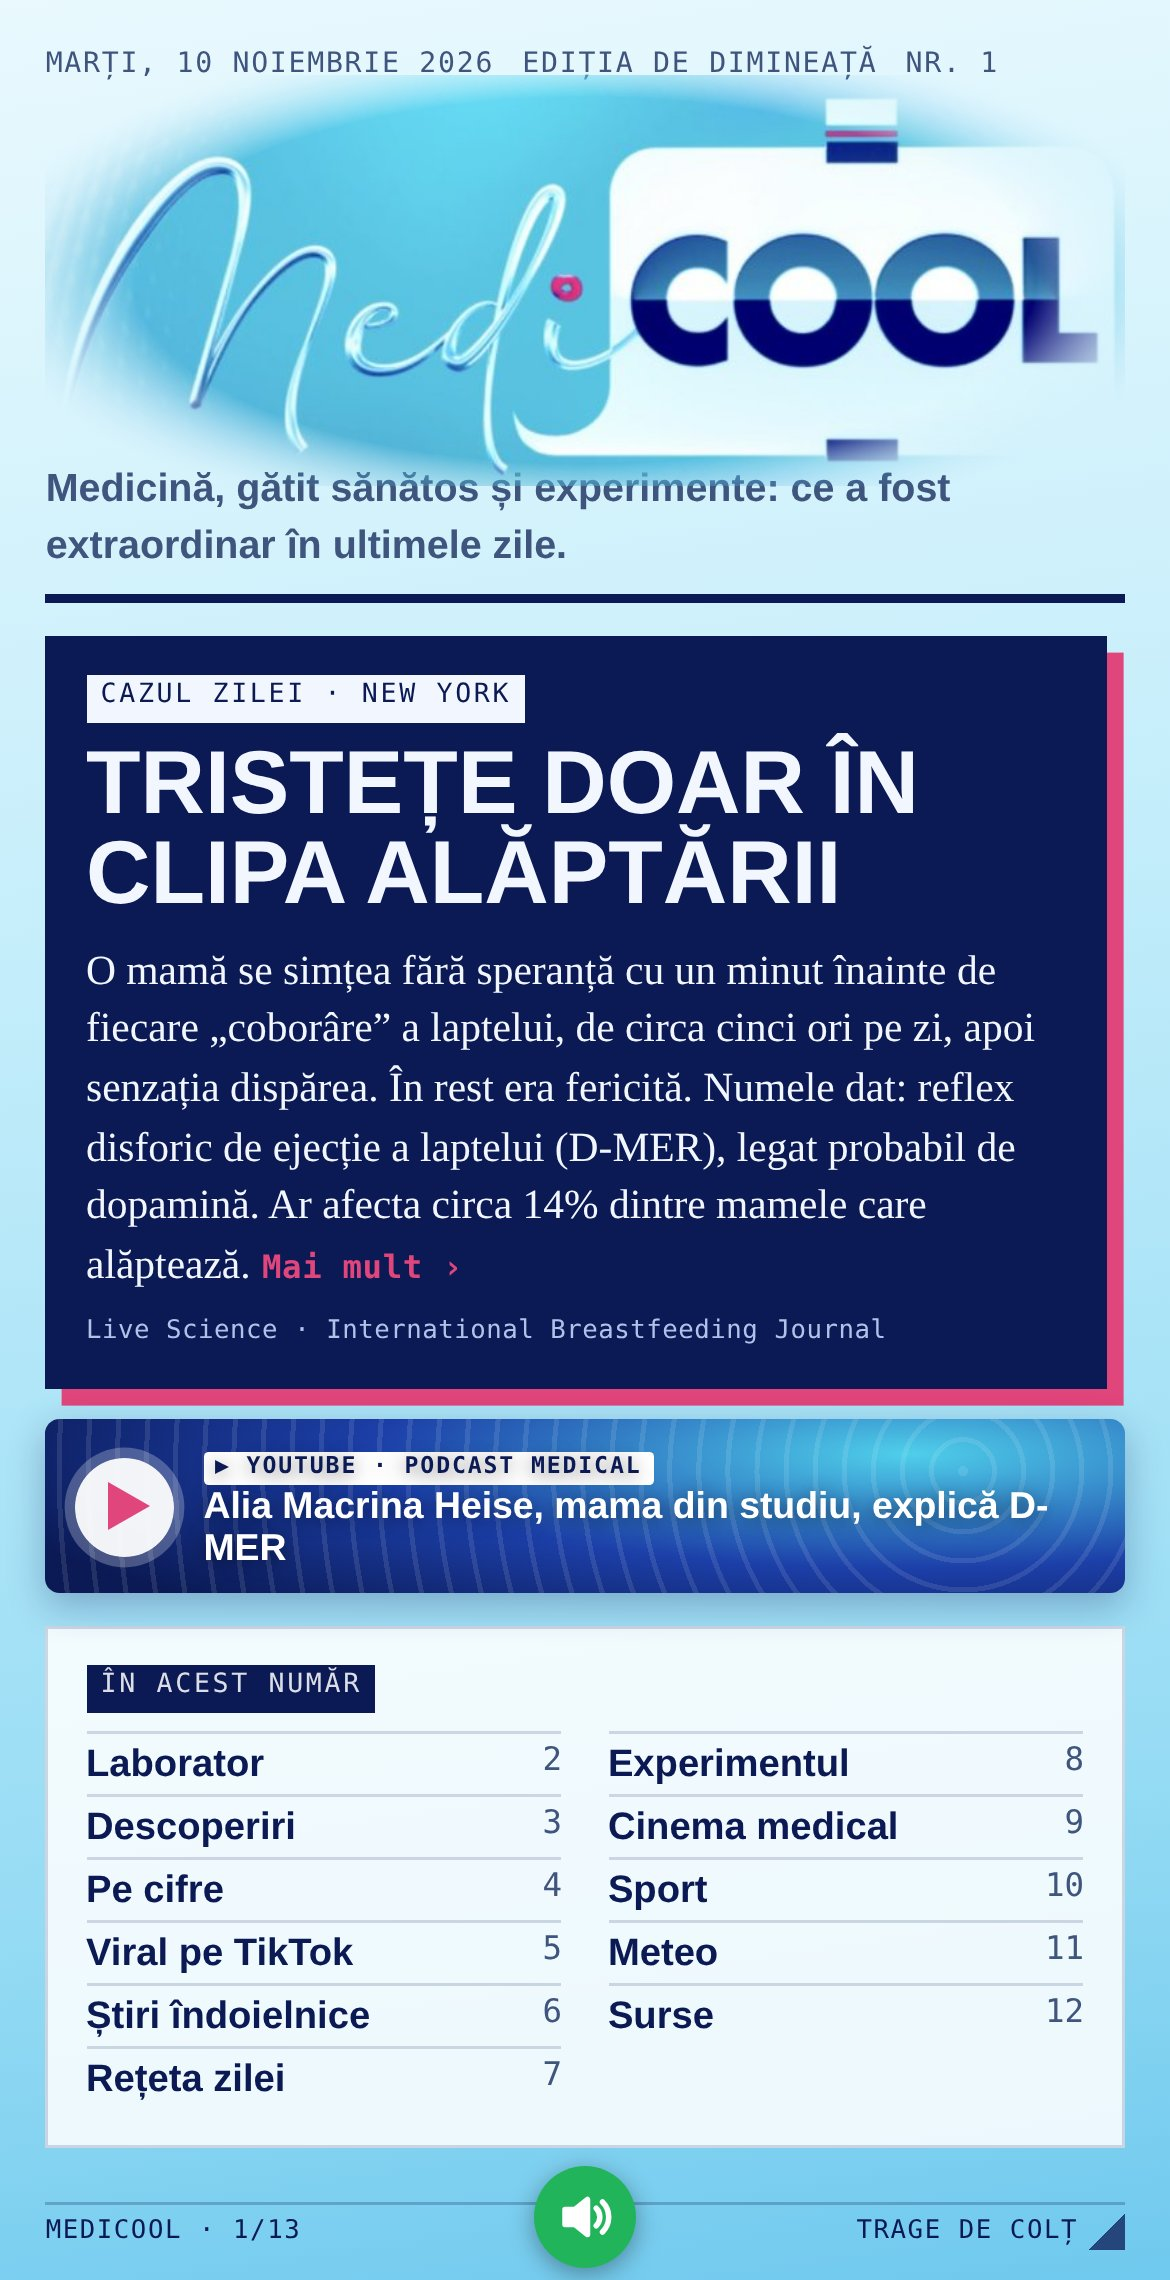
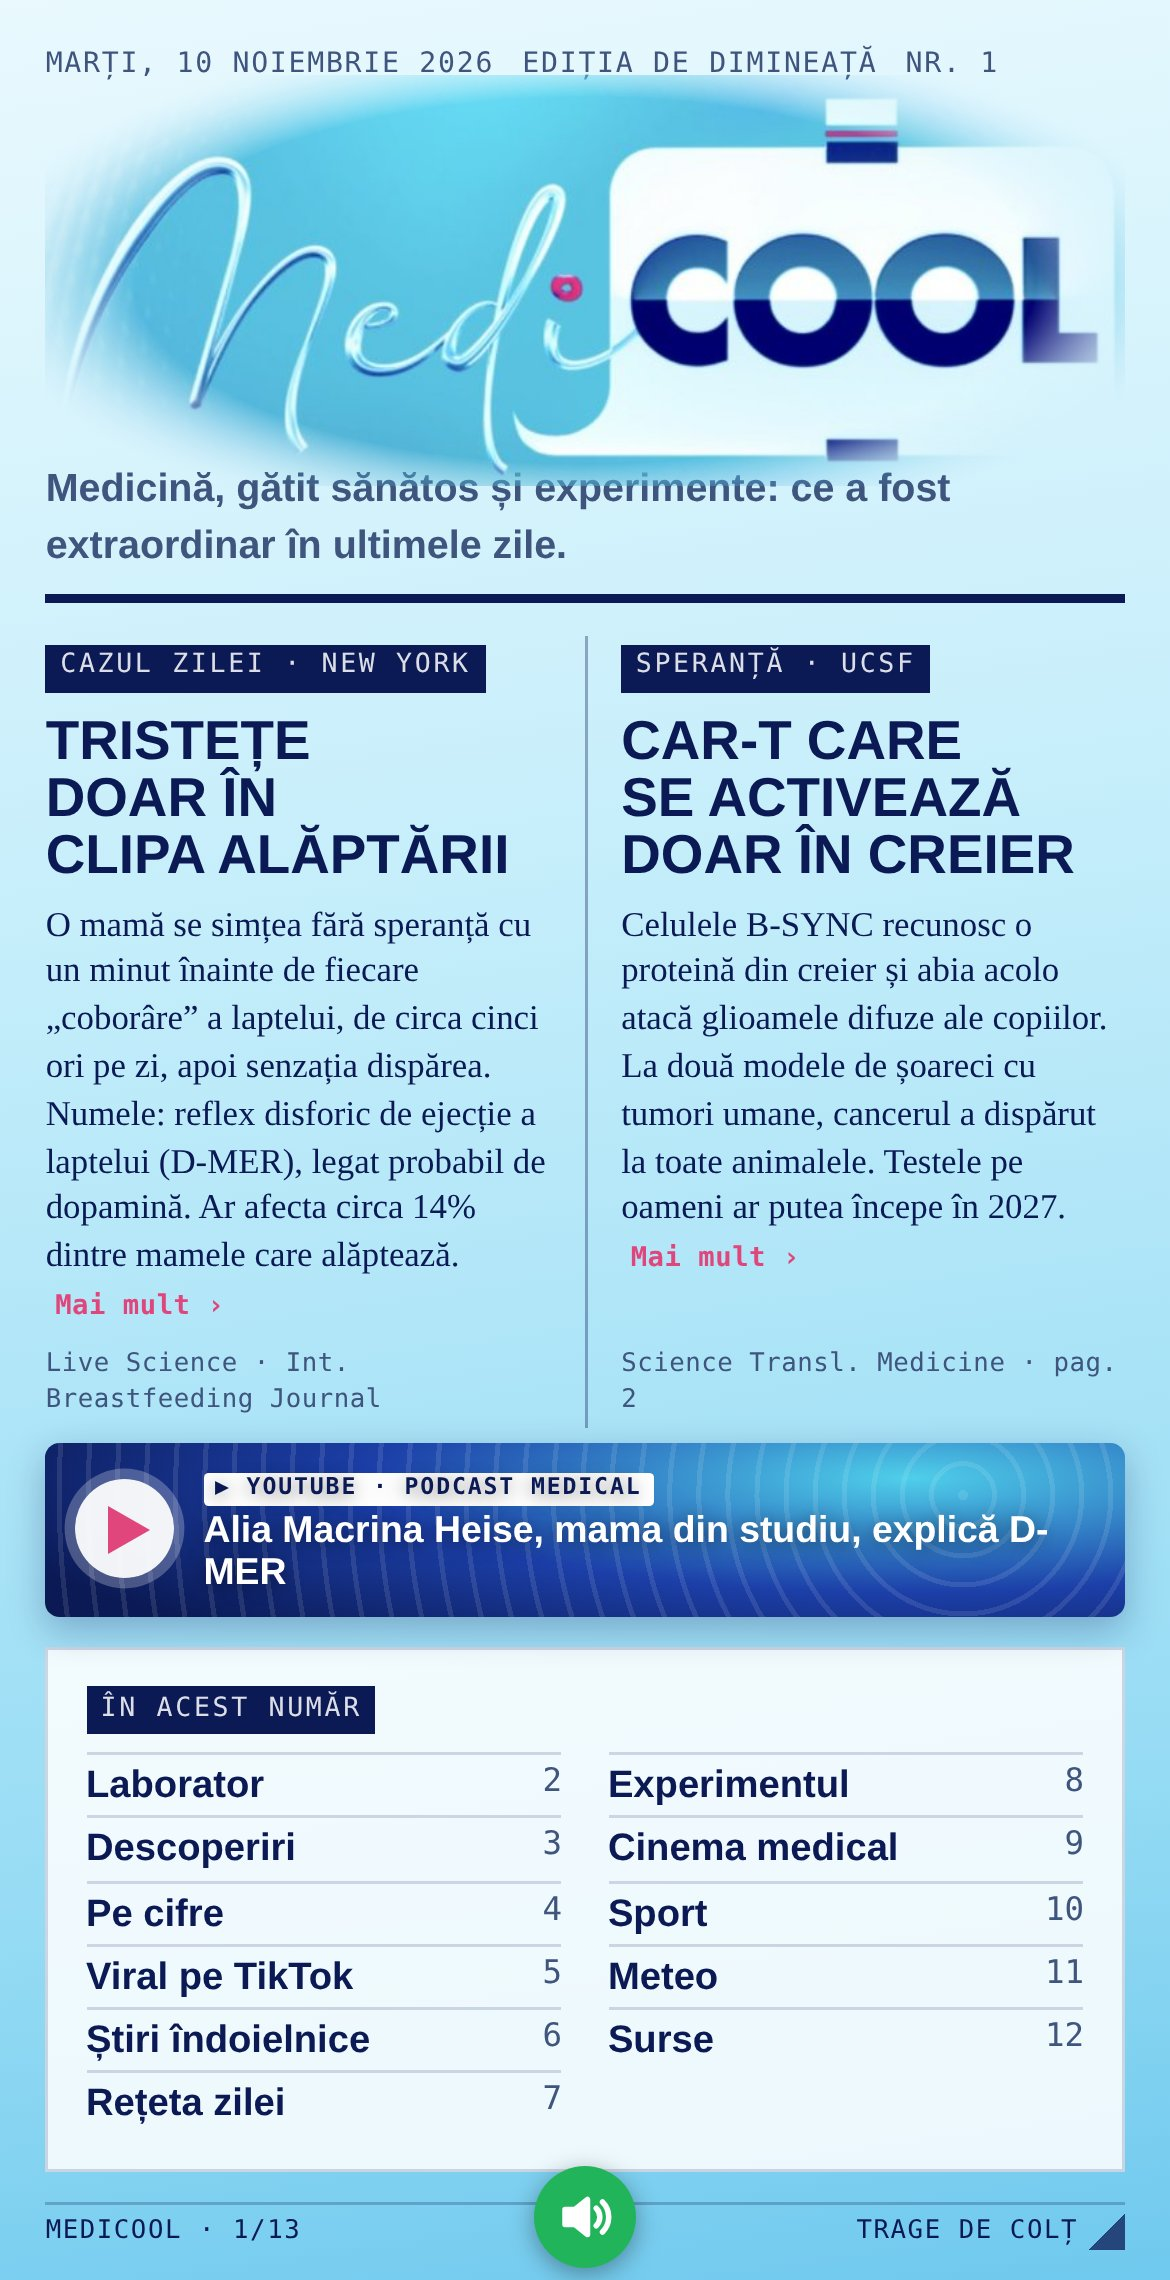
Copertă pe două coloane; cuprinsul duce direct la pagină
Claude-Session: https://claude.ai/code/session_01FzDV5b68UMWScboPR3TvHi

diff --git a/2026-11-10/ziar.html b/2026-11-10/ziar.html
@@ -141,6 +141,13 @@ p{margin:0}
 #player .pl-bar{font-family:var(--font-mono);font-size:12px;color:#cfe3ff;text-align:center}
 #player .pl-bar a{color:#fff;font-weight:700}
 #player .pl-back{align-self:center;border:0;border-radius:999px;padding:10px 18px;background:#E0457B;color:#fff;font-family:var(--font-display);font-weight:800;font-size:15px;cursor:pointer}
+.frontcols{display:grid;grid-template-columns:1fr 1fr;gap:0;flex:1;min-height:0}
+.frontcols .fcol{display:flex;flex-direction:column;gap:.45em;padding:.2em .8em .2em 0}
+.frontcols .fcol+.fcol{padding:.2em 0 .2em .8em;border-left:1px solid rgba(11,26,85,.35)}
+.frontcols h2{font-family:var(--font-display);font-stretch:80%;font-weight:800;font-size:1.32em;line-height:1.05;margin:0;color:var(--ink);text-transform:uppercase}
+.frontcols p{font-size:.84em;line-height:1.36;margin:0;color:var(--ink)}
+.frontcols .src{margin-top:auto;color:var(--muted)}
+.index li{cursor:pointer}.index li *{pointer-events:none}
 .hd.novid,.dub.novid{grid-template-columns:1fr!important}
 .vid.th,.vthumb.th{background-size:cover!important;background-position:center!important}
 .vid.th:before,.vthumb.th:before{background:linear-gradient(180deg,rgba(11,26,85,.15) 0%,rgba(11,26,85,0) 35%,rgba(11,26,85,.75) 100%)!important}
@@ -206,12 +213,20 @@ subiecte_recente: 2026-11-09 copil de piatră Somaliland; gel smalț Nottingham;
     <div class="tag">Medicină, gătit sănătos și experimente: ce a fost extraordinar în ultimele zile.</div>
   </header>
   <div class="grow">
-    <article class="tile lead">
-      <span class="kicker">Cazul zilei · New York</span>
-      <h2>Tristețe doar în clipa alăptării</h2>
-      <p>O mamă se simțea fără speranță cu un minut înainte de fiecare „coborâre” a laptelui, de circa cinci ori pe zi, apoi senzația dispărea. În rest era fericită. Numele dat: reflex disforic de ejecție a laptelui (D-MER), legat probabil de dopamină. Ar afecta circa 14% dintre mamele care alăptează.<a class="more" href="https://www.livescience.com/health/diagnostic-dilemma-mom-experienced-extreme-unhappiness-only-when-she-breastfed" target="_blank" rel="noopener">Mai mult ›</a></p>
-      <span class="src">Live Science · International Breastfeeding Journal</span>
-    </article>
+    <div class="frontcols">
+      <article class="fcol">
+        <span class="kicker">Cazul zilei · New York</span>
+        <h2>Tristețe doar în clipa alăptării</h2>
+        <p>O mamă se simțea fără speranță cu un minut înainte de fiecare „coborâre” a laptelui, de circa cinci ori pe zi, apoi senzația dispărea. Numele: reflex disforic de ejecție a laptelui (D-MER), legat probabil de dopamină. Ar afecta circa 14% dintre mamele care alăptează.<a class="more" href="https://www.livescience.com/health/diagnostic-dilemma-mom-experienced-extreme-unhappiness-only-when-she-breastfed" target="_blank" rel="noopener">Mai mult ›</a></p>
+        <span class="src">Live Science · Int. Breastfeeding Journal</span>
+      </article>
+      <article class="fcol">
+        <span class="kicker">Speranță · UCSF</span>
+        <h2>CAR-T care se activează doar în creier</h2>
+        <p>Celulele B-SYNC recunosc o proteină din creier și abia acolo atacă glioamele difuze ale copiilor. La două modele de șoareci cu tumori umane, cancerul a dispărut la toate animalele. Testele pe oameni ar putea începe în 2027.<a class="more" href="https://www.sciencedaily.com/releases/2026/11/261104084009.htm" target="_blank" rel="noopener">Mai mult ›</a></p>
+        <span class="src">Science Transl. Medicine · pag. 2</span>
+      </article>
+    </div>
     <a class="vid sm" href="https://www.youtube.com/watch?v=voeNpxu7wHg" target="_blank" rel="noopener"><span class="play"></span><span class="cap"><span class="plat">▶ YouTube · podcast medical</span><br>Alia Macrina Heise, mama din studiu, explică D-MER</span></a>
     <div class="tile"><span class="kicker">În acest număr</span>
         <ul class="index cols2">
@@ -624,6 +639,18 @@ subiecte_recente: 2026-11-09 copil de piatră Somaliland; gel smalț Nottingham;
       });
     });
   })();
+  // Cuprins: atingi un titlu și ajungi direct pe pagina lui
+  document.querySelectorAll('.index li').forEach(function(li){
+    var sp=li.querySelector('span'); var n=sp?parseInt(sp.textContent,10):NaN; if(!(n>0)) return;
+    var st=null;
+    li.addEventListener('touchstart',function(e){ var t=e.changedTouches[0]; st={x:t.clientX,y:t.clientY}; ac(); e.stopPropagation(); },{passive:true});
+    li.addEventListener('touchend',function(e){ if(!st) return; var t=e.changedTouches[0], dx=t.clientX-st.x, dy=t.clientY-st.y; st=null; e.stopPropagation();
+      if(Math.abs(dx)>25 && Math.abs(dx)>Math.abs(dy)){ if(e.cancelable) e.preventDefault(); if(dx<0) pf.flipNext('bottom'); else pf.flipPrev('bottom'); return; }
+      if(Math.abs(dx)<10 && Math.abs(dy)<10){ if(e.cancelable) e.preventDefault(); pf.flip(n-1,'bottom'); } },{passive:false});
+    li.addEventListener('mousedown',function(e){ e.stopPropagation(); });
+    li.addEventListener('mouseup',function(e){ e.stopPropagation(); });
+    li.addEventListener('click',function(e){ e.stopPropagation(); pf.flip(n-1,'bottom'); });
+  });
   var KEY='medicool_pag_'+location.pathname;
   // Player YouTube în interiorul ziarului (nu mai ieși din Medicool)
   var YRX=/(?:youtube\.com\/(?:watch\?(?:.*&)?v=|shorts\/|embed\/)|youtu\.be\/)([A-Za-z0-9_-]{11})/;
